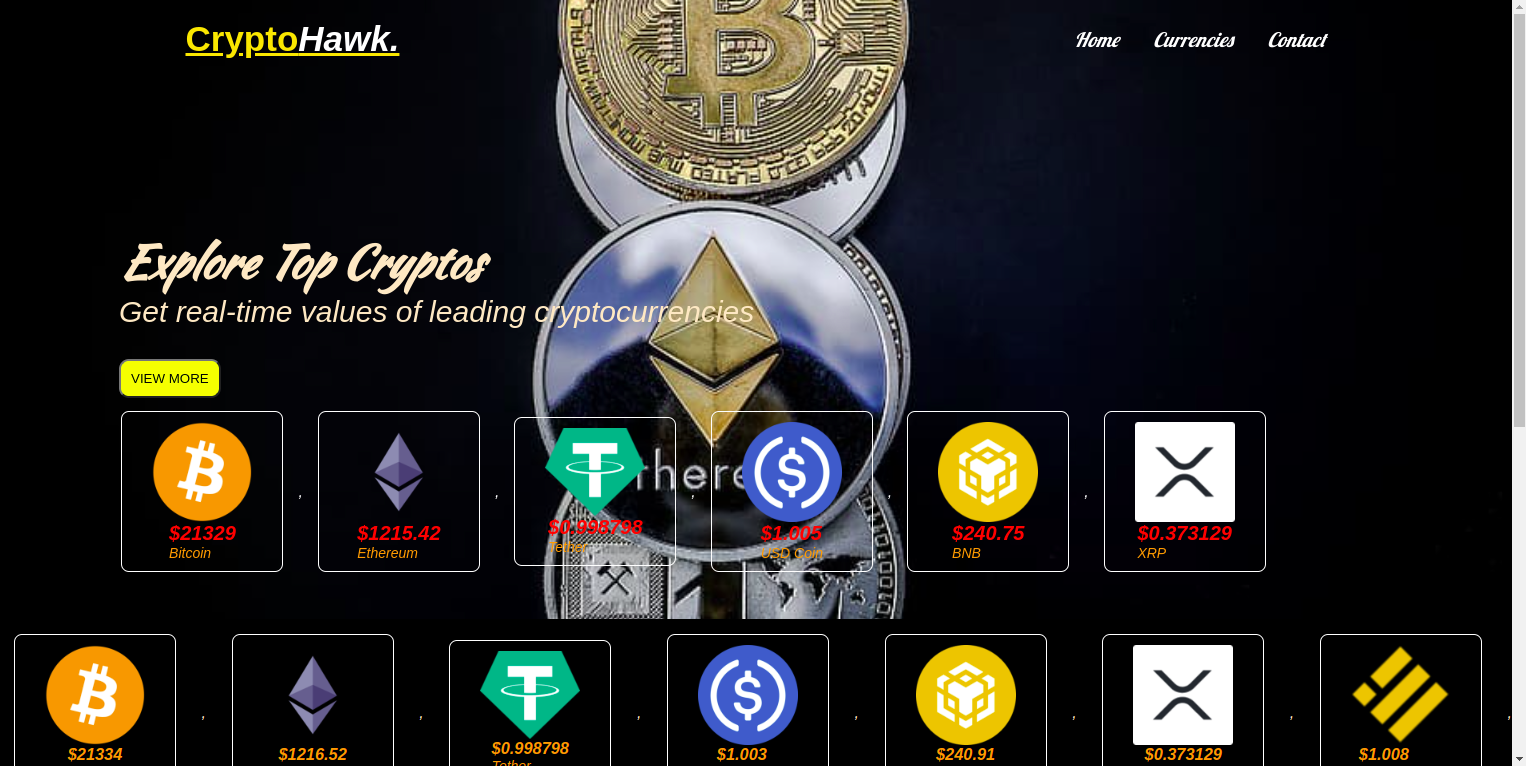
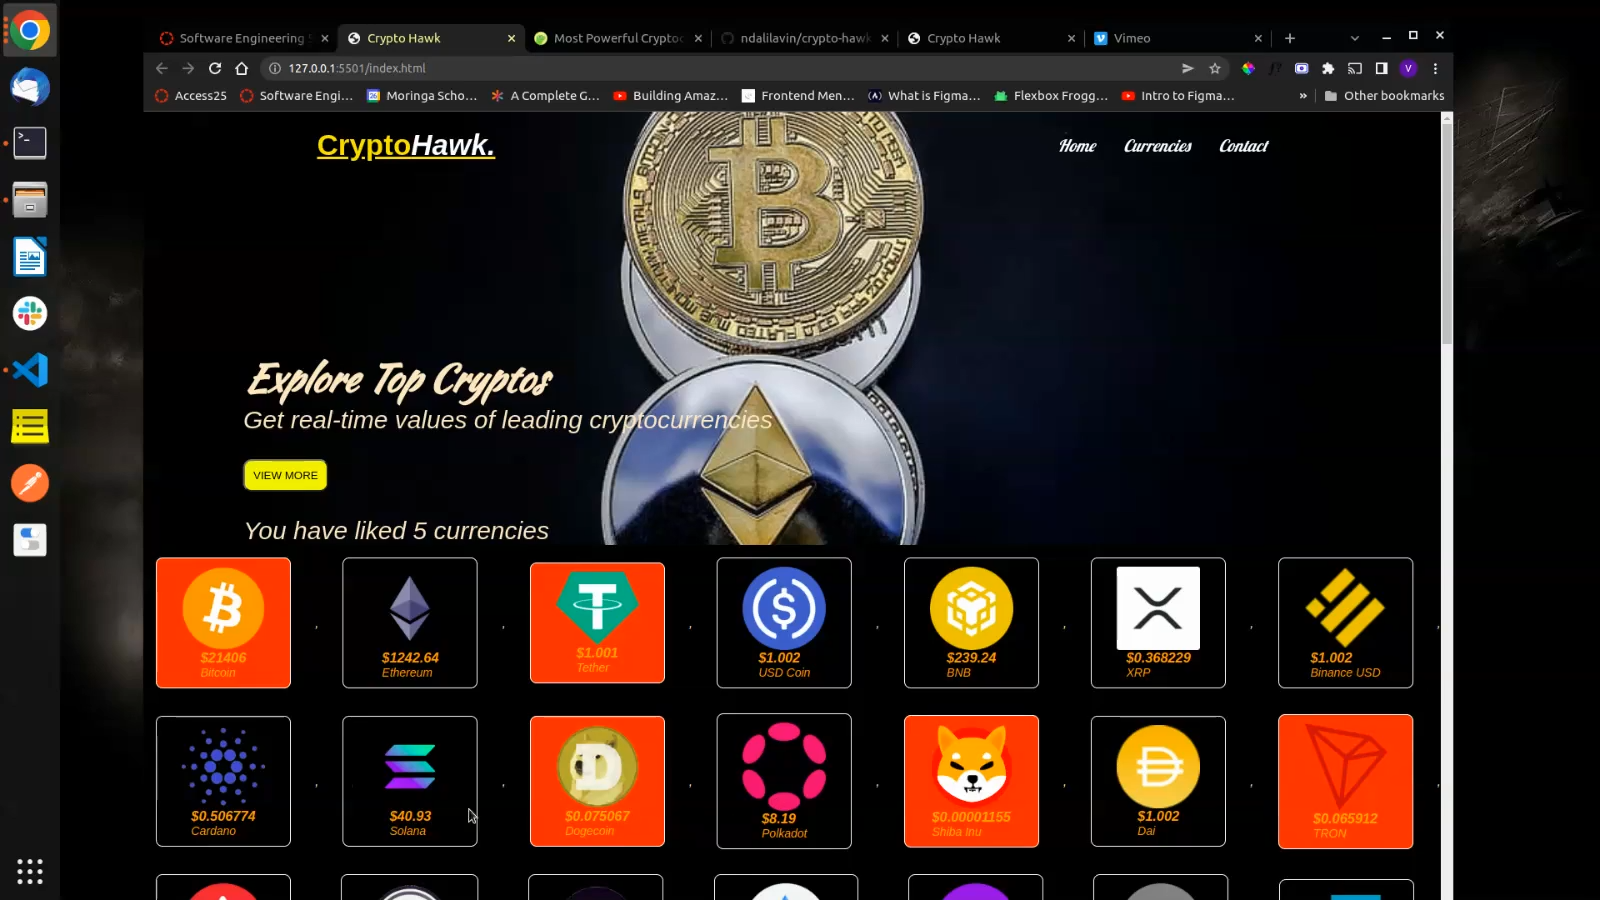
Changed the screenshot on README, and changed the number of displayed items on homepage

diff --git a/index.html b/index.html
@@ -23,7 +23,7 @@
         <div class="content">
             <h1>Explore Top Cryptos</h1>
             <p>Get real-time values of leading cryptocurrencies</p>
-            <button onclick="getCoin(25,1,`coin-list-holder1`)" class="btn">VIEW MORE</button>
+            <button onclick="getCoin(100,1,`coin-list-holder1`)" class="btn">VIEW MORE</button>
             <p id="clicked"></p>
         </div>
 

diff --git a/assets/main.js b/assets/main.js
@@ -63,7 +63,7 @@ function callEvent(event) {
 
     const loc2 = localStorage.getItem("clicked")
     var d = document.getElementById("clicked")
-    d.innerHTML = `count clicked ${loc2}`
+    d.innerHTML = `You have liked ${loc2} currencies`
 }
 
 

diff --git a/assets/styles.css b/assets/styles.css
@@ -116,7 +116,7 @@ h1{
 .main .coin-list1{
     position: absolute;
     background-color: black;
-    top: 600px;
+    top: 500px;
     margin-top: 40px;
     display: flex;
     flex-direction: row;

diff --git a/README.md b/README.md
@@ -1,5 +1,5 @@
 # Phase 1 Project: Crypto Hawk.
- ## By: Vinson Ndalila
+ ## Author: Vinson SN.
 ## Screenshot
  ![image](./assets/images/cryptoHawk.png)
  ## Table of Content
@@ -71,5 +71,5 @@ OUT OF OR IN CONNECTION WITH THE SOFTWARE OR THE USE OR OTHER DEALINGS IN THE
 SOFTWARE.
 [Go Back to the top](#)
 ## Authors Info
-LinkedIn Name - Vinson Ndalila </br>
+LinkedIn Name - Vinson SN. </br>
 Email - vndalila@gmail.com / vinson.steve@student.moringaschool.com
